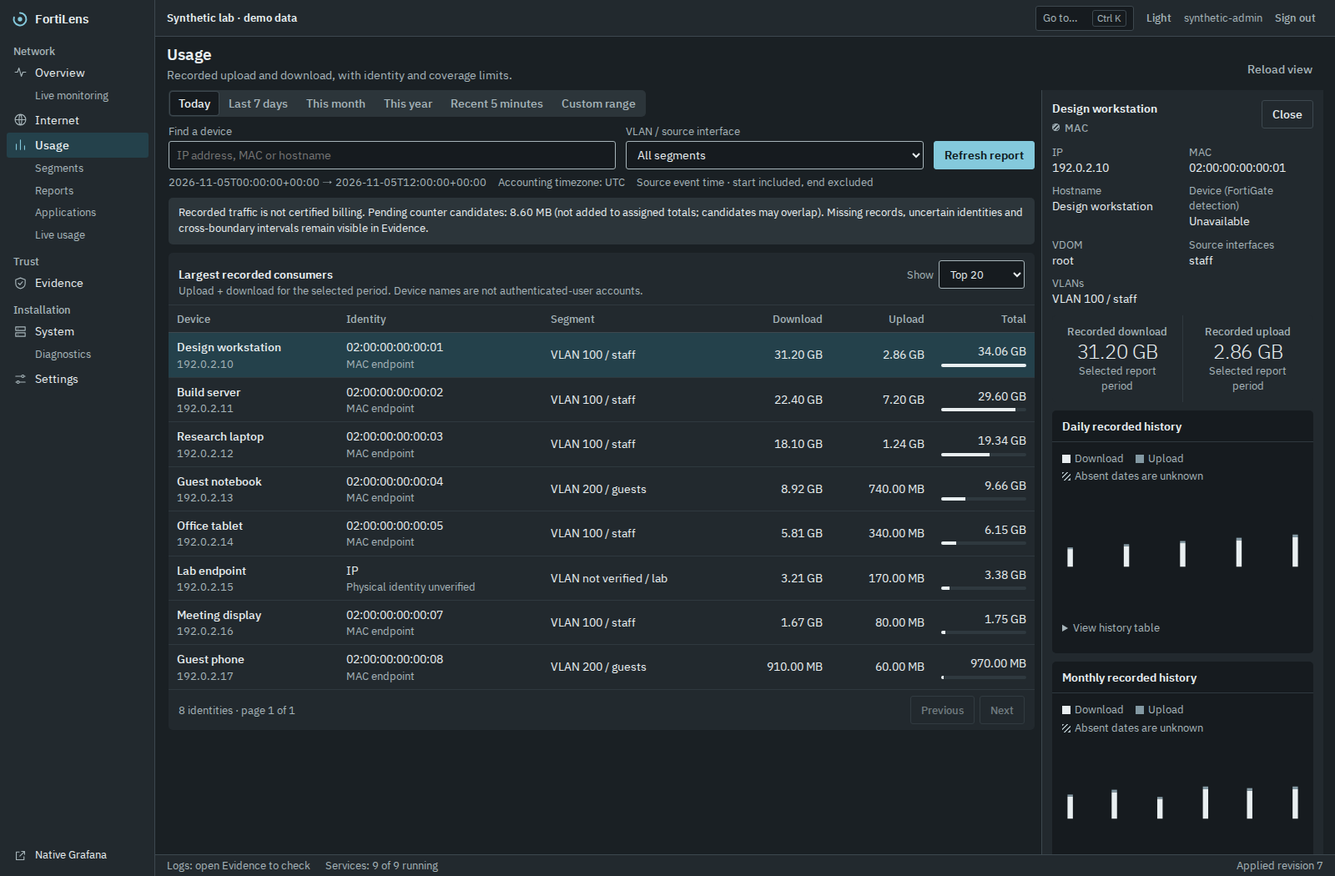
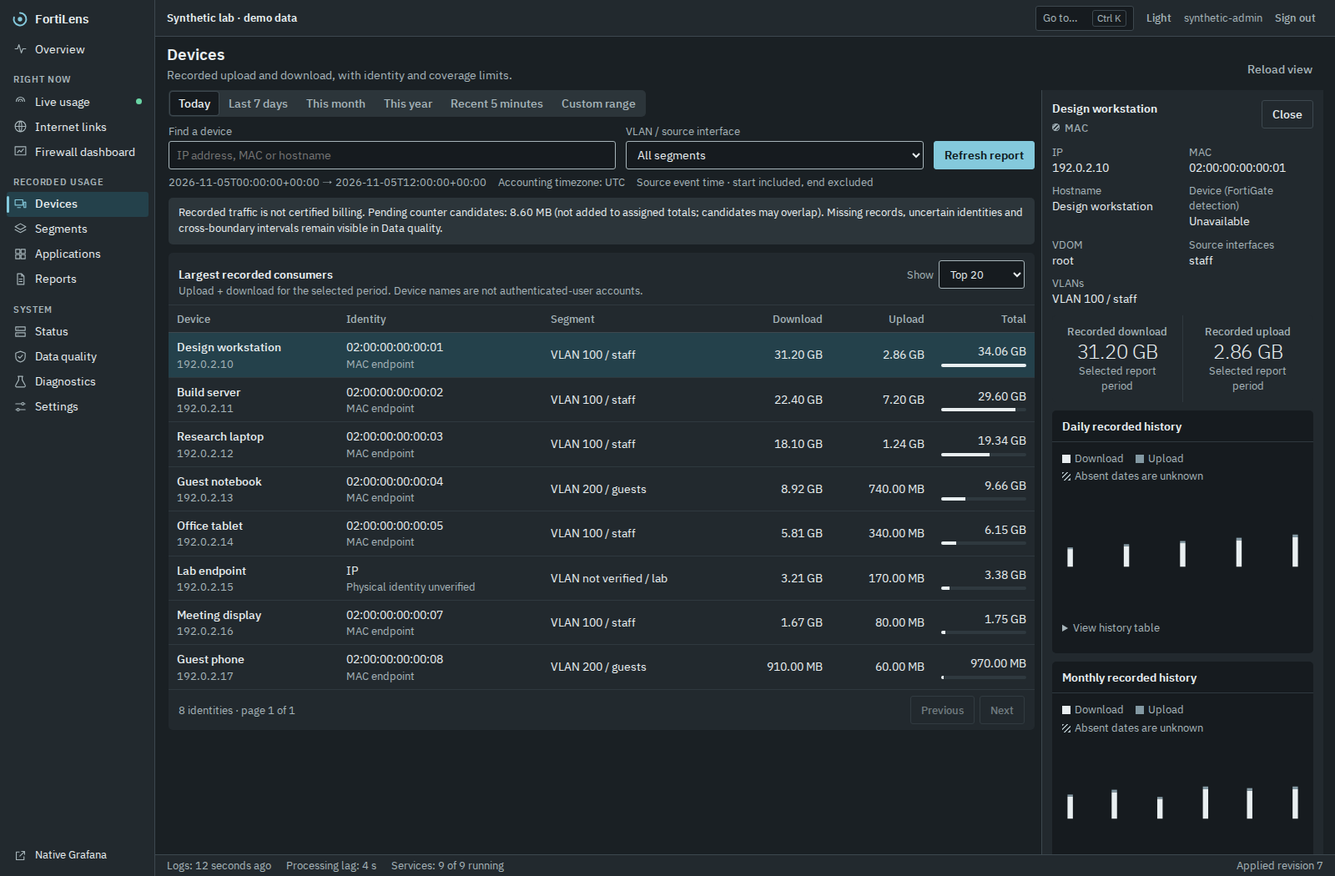
Group the console sidebar by question, with one top-level item per page

diff --git a/portable/reporting.html b/portable/reporting.html
@@ -122,7 +122,7 @@ html .login{max-width:420px;margin:10vh auto;padding:18px;border-radius:5px;back
 </style></head><body>
 <header><div class="brand"><svg class="logo" viewBox="0 0 24 24" fill="none" stroke="currentColor" aria-hidden="true"><path d="M12 3a9 9 0 1 1-8.600 6.300" stroke-width="2.400" stroke-linecap="round"/><circle cx="12" cy="12" r="3.200" fill="currentColor" stroke="none"/></svg><div><strong>FortiLens</strong><small>Traffic intelligence</small></div></div><div class="header-right"><span class="status" id="workspace-status">Protected reports</span><button id="logout" hidden>Sign out</button></div></header>
 <section id="login" class="card login"><h1>Your network, in focus.</h1><p><span id="login-caption">Sign in to inspect recorded traffic, VLAN usage and WAN evidence.</span></p><form id="login-form"><label for="username">Username</label><input id="username" value="admin" autocomplete="username" required><label for="password">Reporting password</label><input id="password" type="password" autocomplete="off" required><button class="primary" id="login-submit" type="submit">Open reports</button><p id="login-error" class="login-error" role="alert"></p></form></section>
-<div id="application" class="layout" hidden><aside><div class="caption">Workspace</div><nav aria-label="Workspace navigation"><button data-view="monitoring" id="monitoring-nav" hidden>Monitoring</button><button class="selected" data-view="overview">Usage overview</button><button data-view="devices">Devices &amp; VLANs</button><button data-view="applications">Applications</button><button data-view="live">Live usage</button><button data-view="wan">Internet</button><button data-view="quality">Evidence</button></nav></aside><main>
+<div id="application" class="layout" hidden><aside><div class="caption">Workspace</div><nav aria-label="Workspace navigation"><button data-view="monitoring" id="monitoring-nav" hidden>Monitoring</button><button class="selected" data-view="overview">Usage overview</button><button data-view="devices">Devices &amp; VLANs</button><button data-view="applications">Applications</button><button data-view="live">Live usage</button><button data-view="wan">Internet links</button><button data-view="quality">Data quality</button></nav></aside><main>
 <div class="page-head"><div><h1 id="page-title">Usage overview</h1><p id="page-description" class="muted">Find your largest recorded Internet consumers.</p></div><span id="coverage" class="status warn">Coverage not certified</span></div>
 <div id="message" class="notice error" role="alert" hidden></div>
 <section id="monitoring-section" hidden><div class="monitoring-toolbar"><p class="muted">Live monitoring powered by Grafana. Missing telemetry stays NO DATA.</p><button id="reload-monitoring">Reload monitoring</button></div><p id="monitoring-clock-warning" class="notice" role="status" hidden></p><p id="monitoring-message" class="notice" role="status">Connecting to monitoring...</p><iframe id="monitoring-frame" title="FortiLens network monitoring" referrerpolicy="same-origin" hidden></iframe></section>
@@ -144,7 +144,7 @@ html .login{max-width:420px;margin:10vh auto;padding:18px;border-radius:5px;back
 function applyTheme(){let theme='';try{theme=localStorage.getItem('fortilens.theme')||''}catch{}if(theme!=='light'&&theme!=='dark'){try{if(window.parent!==window)theme=window.parent.document.documentElement.dataset.theme||''}catch{}}if(theme!=='light'&&theme!=='dark')theme=matchMedia('(prefers-color-scheme: light)').matches?'light':'dark';document.documentElement.dataset.theme=theme}
 applyTheme();window.addEventListener('storage',e=>{if(e.key==='fortilens.theme')applyTheme()});
 const $=id=>document.getElementById(id);const state={auth:'',portal:false,view:'overview',period:'today',report:null,page:0,busy:false,monitoringSequence:0};
-const titles={monitoring:['Network monitoring','Firewall health, WAN quality and traffic in your FortiLens workspace.'],live:['Live usage','Who is using the Internet right now, from FortiGate realtime session statistics.'],overview:['Usage overview','Find your largest recorded Internet consumers.'],applications:['Applications','Which applications and categories used the Internet, and which devices used them.'],devices:['Device usage','Search endpoint identities and inspect each device’s recorded history.'],reports:['Period reports','Review recorded totals, largest consumers and segment distribution.'],vlans:['VLAN usage','Inspect recorded usage by exact VLAN and interface mapping.'],wan:['Internet','Separate Internet SLA, physical link and route-selection evidence.'],quality:['Evidence','See what was received, processed, pending or unavailable.']};
+const titles={monitoring:['Network monitoring','Firewall health, WAN quality and traffic in your FortiLens workspace.'],live:['Live usage','Who is using the Internet right now, from FortiGate realtime session statistics.'],overview:['Usage overview','Find your largest recorded Internet consumers.'],applications:['Applications','Which applications and categories used the Internet, and which devices used them.'],devices:['Device usage','Search endpoint identities and inspect each device’s recorded history.'],reports:['Period reports','Review recorded totals, largest consumers and segment distribution.'],vlans:['VLAN usage','Inspect recorded usage by exact VLAN and interface mapping.'],wan:['Internet links','Separate Internet SLA, physical link and route-selection evidence.'],quality:['Data quality','See what was received, processed, pending or unavailable.']};
 const requestedSection=document.body.dataset.reportSection||new URLSearchParams(location.search).get('section');
 const reportSection=['devices','vlans','reports','applications','live'].includes(requestedSection)?requestedSection:null;
 const bytes=n=>n===null||n===undefined?'—':Number(n)>=1e12?(Number(n)/1e12).toFixed(2)+' TB':Number(n)>=1e9?(Number(n)/1e9).toFixed(2)+' GB':Number(n)>=1e6?(Number(n)/1e6).toFixed(2)+' MB':Number(n)>=1e3?(Number(n)/1e3).toFixed(2)+' KB':number(n)+' B';
@@ -279,7 +279,7 @@ function params(){const q=new URLSearchParams({period:state.period,search:$('sea
 function labelRow(tr,names){names.forEach((name,i)=>{if(tr.children[i])tr.children[i].dataset.label=name})}
 function badge(text,kind=''){return element('span',text,'status '+kind)}
 function stat(label,value,caption,color=''){const card=element('div',undefined,'card');card.append(element('div',label,'metric-label'),element('div',value,'metric-value '+color),element('small',caption));return card}
-function renderStats(r){$('stats').replaceChildren(stat('Recorded download',bytes(r.totals.download_bytes),'Received response bytes','blue'),stat('Recorded upload',bytes(r.totals.upload_bytes),'Internal-origin sent bytes','purple'),stat('Assigned Internet usage',r.totals.upload_bytes===null?'—':bytes(r.totals.upload_bytes+r.totals.download_bytes),'Upload + download; pending excluded'),stat('Observed endpoint identities',r.devices.length?number(r.observed_endpoint_identities):'—',number(r.unverified_endpoint_identities)+' without stable MAC identity'));const pending=(r.totals.pending_upload_bytes||0)+(r.totals.pending_download_bytes||0);$('evidence-note').textContent='Recorded traffic is not certified billing. '+(pending?'Pending counter candidates: '+bytes(pending)+' (not added to assigned totals; candidates may overlap). ':'')+'Missing records, uncertain identities and cross-boundary intervals remain visible in Evidence.';$('range-label').textContent=r.start_utc+' → '+r.end_utc;$('timezone').textContent='Accounting timezone: '+r.timezone;$('coverage').textContent=r.status==='UNAVAILABLE'?'No accounting evidence':'Recorded data · coverage unknown'}
+function renderStats(r){$('stats').replaceChildren(stat('Recorded download',bytes(r.totals.download_bytes),'Received response bytes','blue'),stat('Recorded upload',bytes(r.totals.upload_bytes),'Internal-origin sent bytes','purple'),stat('Assigned Internet usage',r.totals.upload_bytes===null?'—':bytes(r.totals.upload_bytes+r.totals.download_bytes),'Upload + download; pending excluded'),stat('Observed endpoint identities',r.devices.length?number(r.observed_endpoint_identities):'—',number(r.unverified_endpoint_identities)+' without stable MAC identity'));const pending=(r.totals.pending_upload_bytes||0)+(r.totals.pending_download_bytes||0);$('evidence-note').textContent='Recorded traffic is not certified billing. '+(pending?'Pending counter candidates: '+bytes(pending)+' (not added to assigned totals; candidates may overlap). ':'')+'Missing records, uncertain identities and cross-boundary intervals remain visible in Data quality.';$('range-label').textContent=r.start_utc+' → '+r.end_utc;$('timezone').textContent='Accounting timezone: '+r.timezone;$('coverage').textContent=r.status==='UNAVAILABLE'?'No accounting evidence':'Recorded data · coverage unknown'}
 function vlanName(v){return v.status==='MAPPED'?'VLAN '+v.vlan_id:v.status==='NOT_VLAN'?'Interface segment':'VLAN not verified'}
 function renderDevices(){const r=state.report;if(!r)return;let devices=r.devices;const cap=$('top').value;if(cap!=='all')devices=devices.slice(0,Number(cap));const size=50;state.page=Math.min(state.page,Math.max(0,Math.ceil(devices.length/size)-1));const page=devices.slice(state.page*size,(state.page+1)*size);$('device-body').replaceChildren();const max=devices[0]?.total_bytes||1;for(const d of page){const tr=element('tr'),name=element('td'),link=element('button',d.hostname||d.ip||'Unidentified endpoint','entity');link.addEventListener('click',()=>{for(const row of document.querySelectorAll('tr.sel'))row.classList.remove('sel');tr.classList.add('sel');openDevice(d.device_id)});name.append(link,element('span',d.ip||'No source IP','secondary'));const identity=identityCell(d);const vlans=element('td',d.vlans.map(v=>vlanName(v)+' / '+v.interface).join(', '));tr.append(name,identity,vlans);for(const n of [d.download_bytes,d.upload_bytes,d.total_bytes]){const td=element('td',bytes(n),'number');td.title=String(n)+' bytes';tr.append(td)}if(state.period==='recent')tr.lastChild.append(element('span',number(d.total_bytes*8/300/1e6)+' Mbps recorded average','secondary'));const p=element('progress');p.max=max;p.value=d.total_bytes;p.setAttribute('aria-label','Relative assigned usage');tr.lastChild.append(p);labelRow(tr,['Device','Identity','Segment','Download','Upload','Total']);$('device-body').append(tr)}$('device-empty').hidden=devices.length>0;$('device-count').textContent=number(devices.length)+' identities · page '+(state.page+1)+' of '+Math.max(1,Math.ceil(devices.length/size));$('previous').disabled=state.page===0;$('next').disabled=(state.page+1)*size>=devices.length;$('device-title').textContent=cap==='all'?'Observed endpoint identities':'Largest recorded consumers';$('device-caption').textContent=state.period==='recent'?'Recorded bytes during the last 5 minutes; not instantaneous per-device bandwidth.':'Upload + download for the selected period. Device names are not authenticated-user accounts.'}
 function renderVlans(r){$('vlan-body').replaceChildren();for(const v of r.vlans){const tr=element('tr'),cell=element('td'),button=element('button',vlanName(v.vlan),'entity');button.addEventListener('click',()=>{$('vlan').value=v.vlan.key;loadReport()});cell.append(button);tr.append(cell,element('td',v.vlan.interface),element('td',number(v.observed_endpoint_identities),'number'),element('td',bytes(v.download_bytes),'number'),element('td',bytes(v.upload_bytes),'number'),element('td',bytes(v.total_bytes),'number'));labelRow(tr,['VLAN','Interface','Identities','Download','Upload','Total']);$('vlan-body').append(tr)}$('vlan-empty').hidden=r.vlans.length>0;const current=$('vlan').value;const known=new Set([...$('vlan').options].map(x=>x.value));const add=(key,text)=>{if(known.has(key))return;known.add(key);const o=element('option',text);o.value=key;$('vlan').append(o)};for(const v of r.vlans)add(v.vlan.key,vlanName(v.vlan)+' / '+v.vlan.interface);

diff --git a/management/static/index.html b/management/static/index.html
@@ -6,7 +6,7 @@
 <div id="workspace" class="workspace" hidden>
 <a id="skip-content" class="skip-link" href="#main-content">Skip to content</a>
 <button id="nav-scrim" class="nav-scrim" type="button" aria-label="Close navigation" hidden tabindex="-1"></button>
-<aside id="workspace-nav" class="sidebar" aria-label="Workspace"><button id="menu-close" class="menu-close" type="button" aria-label="Close navigation"><svg viewBox="0 0 24 24" aria-hidden="true"><path d="m6 6 12 12M18 6 6 18"/></svg></button><a class="brand" href="#monitoring"><svg viewBox="0 0 24 24" aria-hidden="true"><path d="M12 3a9 9 0 1 1-8.600 6.300" stroke-width="2.400" stroke-linecap="round"/><circle cx="12" cy="12" r="3.200"/></svg><span><strong>FortiLens</strong></span></a><nav aria-label="Main navigation"><p class="nav-caption">Network</p><a href="#home" data-page="home"><span class="nav-icon"></span>Overview</a><a class="child" href="#monitoring" data-page="monitoring">Live monitoring</a><a href="#wan" data-page="wan"><span class="nav-icon"></span>Internet</a><a href="#devices" data-page="devices"><span class="nav-icon"></span>Usage</a><a class="child" href="#vlans" data-page="vlans">Segments</a><a class="child" href="#reports" data-page="reports">Reports</a><a class="child" href="#applications" data-page="applications">Applications</a><a class="child" href="#live" data-page="live">Live usage</a><p class="nav-caption">Trust</p><a href="#quality" data-page="quality"><span class="nav-icon"></span>Evidence</a><p class="nav-caption">Installation</p><a href="#overview" data-page="overview"><span class="nav-icon"></span>System</a><a class="child" href="#diagnostics" data-page="diagnostics">Diagnostics</a><a href="#settings" data-page="settings"><span class="nav-icon"></span>Settings</a></nav><div class="sidebar-foot"><a id="native-grafana" href="/grafana/" target="_blank" rel="noopener" hidden><svg viewBox="0 0 24 24" aria-hidden="true"><path d="M14 5h5v5M19 5l-8 8M18 14v5H5V6h5"/></svg>Native Grafana</a></div></aside>
+<aside id="workspace-nav" class="sidebar" aria-label="Workspace"><button id="menu-close" class="menu-close" type="button" aria-label="Close navigation"><svg viewBox="0 0 24 24" aria-hidden="true"><path d="m6 6 12 12M18 6 6 18"/></svg></button><a class="brand" href="#monitoring"><svg viewBox="0 0 24 24" aria-hidden="true"><path d="M12 3a9 9 0 1 1-8.600 6.300" stroke-width="2.400" stroke-linecap="round"/><circle cx="12" cy="12" r="3.200"/></svg><span><strong>FortiLens</strong></span></a><nav aria-label="Main navigation"><a href="#home" data-page="home"><span class="nav-icon"></span>Overview</a><p class="nav-caption">Right now</p><a href="#live" data-page="live"><span class="nav-icon"></span>Live usage<span class="nav-live" aria-hidden="true"></span></a><a href="#wan" data-page="wan"><span class="nav-icon"></span>Internet links</a><a href="#monitoring" data-page="monitoring"><span class="nav-icon"></span>Firewall dashboard</a><p class="nav-caption">Recorded usage</p><a href="#devices" data-page="devices"><span class="nav-icon"></span>Devices</a><a href="#vlans" data-page="vlans"><span class="nav-icon"></span>Segments</a><a href="#applications" data-page="applications"><span class="nav-icon"></span>Applications</a><a href="#reports" data-page="reports"><span class="nav-icon"></span>Reports</a><p class="nav-caption">System</p><a href="#overview" data-page="overview"><span class="nav-icon"></span>Status</a><a href="#quality" data-page="quality"><span class="nav-icon"></span>Data quality</a><a href="#diagnostics" data-page="diagnostics"><span class="nav-icon"></span>Diagnostics</a><a href="#settings" data-page="settings"><span class="nav-icon"></span>Settings</a></nav><div class="sidebar-foot"><a id="native-grafana" href="/grafana/" target="_blank" rel="noopener" hidden><svg viewBox="0 0 24 24" aria-hidden="true"><path d="M14 5h5v5M19 5l-8 8M18 14v5H5V6h5"/></svg>Native Grafana</a></div></aside>
 <div id="main-shell" class="main-shell"><header class="topbar"><button id="menu-toggle" class="menu-toggle" type="button" aria-label="Open navigation" aria-expanded="false" aria-controls="workspace-nav"><svg viewBox="0 0 24 24" aria-hidden="true"><path d="M4 6h16M4 12h16M4 18h16"/></svg></button><span id="site-label">Your network workspace</span><div><button id="palette-open" type="button" aria-haspopup="dialog" aria-label="Open command palette"><span>Go to…</span><span class="kbd">Ctrl K</span></button><button id="theme-toggle" class="quiet" type="button">Light</button><span id="session-user" class="muted"></span><button id="signout" class="quiet">Sign out</button></div></header><main id="main-content" tabindex="-1">
 <div class="page-heading"><div><h1 id="page-title" tabindex="-1">Network overview</h1><p id="page-caption">One place to configure, monitor and understand your network.</p></div><button id="reload-console" class="quiet console-refresh">Reload view</button><span id="revision" class="pill">Not configured</span></div>
 <div id="notice" class="notice" role="status" hidden></div>
@@ -14,12 +14,12 @@
 <section id="home-status" class="stat is-u" aria-live="polite"><div class="stat-m"><h2 id="home-head">Reading the evidence…</h2><p id="home-sub">Nothing is assumed until it is received.</p></div><dl id="home-fields" class="stat-f"></dl><a id="home-action" class="button" hidden></a></section>
 <div class="home-grid"><div class="col">
 <section class="scope"><div class="scope-h"><h2>Network channels</h2><span id="home-cursor" class="scope-cur" aria-live="off"></span><div class="scope-tools"><label class="inline" for="home-window">Window<select id="home-window"><option value="3600">Last hour</option><option value="86400" selected>Last 24 hours</option><option value="604800">Last 7 days</option></select></label><button id="home-refresh" type="button">Refresh</button></div></div><div id="home-channels" tabindex="0" aria-label="Network channels on one time axis. Use the left and right arrow keys to read a moment in time."></div><div id="home-axis" class="xaxis"></div></section>
-<div class="lkey"><span class="up">Observed up</span><span class="degraded">Degraded</span><span class="down">Observed down</span><span class="unknown">No evidence</span><a class="lkey-link" href="#monitoring" data-page="monitoring">Latency and traffic traces in live monitoring</a></div>
+<div class="lkey"><span class="up">Observed up</span><span class="degraded">Degraded</span><span class="down">Observed down</span><span class="unknown">No evidence</span><a class="lkey-link" href="#monitoring" data-page="monitoring">Latency and traffic traces in the firewall dashboard</a></div>
 <section id="home-wan" class="panel-flat" hidden><div class="table-wrap"><table><thead><tr><th>Link</th><th>Internet SLA</th><th>Physical</th><th>Route</th><th class="r">Down / Up Mbps</th><th class="r">Latency / Jitter</th><th class="r">Loss</th><th class="r">Observed up</th></tr></thead><tbody id="home-wan-body"></tbody></table></div><p id="home-route" class="help"></p></section>
 </div><div class="col">
 <section class="box"><div class="panel-head"><h2>Largest recorded consumers</h2><a class="small-link" href="#devices" data-page="devices">All devices</a></div><ul id="home-consumers" class="plain"></ul><p class="help box-note">Device names are not user accounts. Totals cover received logs only.</p></section>
 <section class="box"><div class="panel-head"><h2>By segment</h2><a class="small-link" href="#vlans" data-page="vlans">Compare</a></div><ul id="home-segments" class="plain"></ul></section>
-<section class="box"><div class="panel-head"><h2>Installation</h2><a class="small-link" href="#overview">System</a></div><ul id="home-services" class="plain"></ul></section>
+<section class="box"><div class="panel-head"><h2>Installation</h2><a class="small-link" href="#overview">Status</a></div><ul id="home-services" class="plain"></ul></section>
 </div></div></section>
 <section id="overview-page"><div class="overview-actions"><a class="button" href="#monitoring" data-page="monitoring">Open live monitoring</a><a class="button" href="#diagnostics" data-page="diagnostics">Run diagnostics</a></div><div class="summary-cards" id="overview-cards"></div><div class="two-col"><section class="panel"><div class="panel-head"><div><h2>Monitoring services</h2><p>Actual container state, independent of FortiGate reachability.</p></div><button id="refresh-system">Refresh</button></div><div id="service-list"></div></section><section class="panel workspace-note"><h2 id="next-title">Connect your network.</h2><p id="next-caption">Review the connection, confirm Internet interfaces and apply your monitoring configuration.</p><a class="button" href="#settings">Manage settings</a><hr><h3>Collection matters</h3><p>Running services do not prove that the firewall is sending data. Review collection health before interpreting usage.</p><a href="#diagnostics">Review diagnostics</a></section></div><div class="evidence-note"><p>Missing telemetry stays unknown. Reports show received accounting evidence, with collection gaps and identity limits visible.</p><a href="#quality" data-page="quality">Review evidence</a></div></section>
 <section id="console-page" hidden><p id="console-clock-warning" class="notice" role="status" hidden></p><p id="console-error" class="notice" hidden></p><div class="console-stage"><p id="console-loading" role="status" hidden>Loading workspace…</p><iframe id="console-frame" title="FortiLens monitoring and reports" referrerpolicy="same-origin"></iframe></div></section>

diff --git a/management/static/app.js b/management/static/app.js
@@ -48,8 +48,8 @@ function consoleDocumentReady(frame){
   return true;
  }catch(e){return false}
 }
-const titles={home:['Overview','What the links, logs and usage evidence say right now.'],overview:['System','Monitoring services, storage and configuration readiness.'],wan:['Internet','Observed health, physical link and route evidence remain separate.'],devices:['Usage','Recorded upload and download, with identity and coverage limits.'],vlans:['Segments','Internet usage grouped by exact interface metadata.'],reports:['Reports','Daily, weekly and monthly reports from the existing accounting engine.'],applications:['Applications','Recorded Internet usage by application and category, and the devices that used them.'],live:['Live usage','Who is using the Internet right now, from FortiGate realtime session statistics.'],monitoring:['Live monitoring','Firewall health, Internet links and interface traffic in native Grafana.'],quality:['Evidence','Collection gaps, accounting evidence and identity limits.'],settings:['Settings','Manage your installation without editing configuration files.'],diagnostics:['Diagnostics','Read-only evidence, service readiness and actionable next steps.']};
-const pageGroups={home:'Network',monitoring:'Overview',wan:'Network',devices:'Network',vlans:'Usage',reports:'Usage',applications:'Usage',live:'Usage',quality:'Trust',overview:'Installation',diagnostics:'System',settings:'Installation'};
+const titles={home:['Overview','What the links, logs and usage evidence say right now.'],overview:['Status','Monitoring services, storage and configuration readiness.'],wan:['Internet links','Observed health, physical link and route evidence remain separate.'],devices:['Devices','Recorded upload and download, with identity and coverage limits.'],vlans:['Segments','Internet usage grouped by exact interface metadata.'],reports:['Reports','Daily, weekly and monthly reports from the existing accounting engine.'],applications:['Applications','Recorded Internet usage by application and category, and the devices that used them.'],live:['Live usage','Who is using the Internet right now, from FortiGate realtime session statistics.'],monitoring:['Firewall dashboard','Firewall health, Internet links and interface traffic in native Grafana.'],quality:['Data quality','Collection gaps, accounting evidence and identity limits.'],settings:['Settings','Manage your installation without editing configuration files.'],diagnostics:['Diagnostics','Read-only evidence, service readiness and actionable next steps.']};
+const pageGroups={home:'Overview',live:'Right now',wan:'Right now',monitoring:'Right now',devices:'Recorded usage',vlans:'Recorded usage',applications:'Recorded usage',reports:'Recorded usage',overview:'System',quality:'System',diagnostics:'System',settings:'System'};
 // Theme choice is shared with the same-origin report frame through storage.
 function savedTheme(){try{const value=localStorage.getItem('fortilens.theme');if(value==='light'||value==='dark')return value}catch{}return window.matchMedia('(prefers-color-scheme: light)').matches?'light':'dark'}
 function applyTheme(theme){document.documentElement.dataset.theme=theme;try{const doc=$('console-frame').contentDocument;if(doc?.location.pathname.startsWith('/console/'))doc.documentElement.dataset.theme=theme}catch{}$('theme-toggle').textContent=theme==='dark'?'Light':'Dark';$('theme-toggle').setAttribute('aria-label','Switch to '+(theme==='dark'?'light':'dark')+' theme')}
@@ -524,7 +524,7 @@ function serverNow(){const t=state.system?.server_time_seconds;return typeof t==
 function agoText(seconds){if(!Number.isFinite(seconds)||seconds<0)return 'time unknown';if(seconds<90)return Math.round(seconds)+' seconds ago';if(seconds<5400)return Math.round(seconds/60)+' minutes ago';if(seconds<172800)return Math.round(seconds/3600)+' hours ago';return Math.round(seconds/86400)+' days ago'}
 function renderEvidenceBar(){
  const s=state.system,v=state.view,e=state.evidence||{};
- const logs=$('evidence-logs');logs.textContent=e.lastLog?'Logs: '+agoText(serverNow()-e.lastLog):state.evidence?'Logs: none received':'Logs: open Evidence to check';logs.classList.toggle('attention',!!state.evidence&&(!e.lastLog||serverNow()-e.lastLog>900));
+ const logs=$('evidence-logs');logs.textContent=e.lastLog?'Logs: '+agoText(serverNow()-e.lastLog):state.evidence?'Logs: none received':'Logs: open Data quality to check';logs.classList.toggle('attention',!!state.evidence&&(!e.lastLog||serverNow()-e.lastLog>900));
  $('evidence-lag').hidden=!Number.isFinite(e.lag);if(Number.isFinite(e.lag))$('evidence-lag').textContent='Processing lag: '+Number(e.lag).toLocaleString(undefined,{maximumFractionDigits:1})+' s';
  if(s){const running=s.services.filter(r=>r.status==='running').length,enabled=s.services.filter(r=>r.status!=='disabled').length;$('evidence-services').textContent='Services: '+running+' of '+enabled+' running';$('evidence-services').classList.toggle('attention',running<enabled)}else{$('evidence-services').textContent='Services: unknown';$('evidence-services').classList.add('attention')}
  $('evidence-revision').textContent=v?(v.pending_changes?'Draft '+v.revision+' · Applied '+(v.applied_revision??'none'):v.configured?'Applied revision '+v.applied_revision:'Not configured'):'';
@@ -543,5 +543,5 @@ $('palette-open').addEventListener('click',openPalette);$('palette-input').addEv
 $('palette-input').addEventListener('keydown',e=>{const count=state.paletteMatches?.length||0;if(e.key==='ArrowDown'&&count){e.preventDefault();state.paletteIndex=(state.paletteIndex+1)%count;renderPalette()}else if(e.key==='ArrowUp'&&count){e.preventDefault();state.paletteIndex=(state.paletteIndex-1+count)%count;renderPalette()}else if(e.key==='Enter'){e.preventDefault();runPalette(state.paletteIndex)}});
 window.addEventListener('keydown',e=>{if((e.ctrlKey||e.metaKey)&&e.key.toLowerCase()==='k'&&!e.altKey&&!e.shiftKey){e.preventDefault();openPalette()}});
 // Local SVG navigation icons; no trackers, CDN or external assets.
-for(const node of document.querySelectorAll('.nav-icon')){const svg=document.createElementNS('http://www.w3.org/2000/svg','svg');svg.setAttribute('viewBox','0 0 24 24');svg.setAttribute('aria-hidden','true');const p=document.createElementNS(svg.namespaceURI,'path');p.setAttribute('d',({home:'M3 12h4l2.500-7 4 14 2.500-7h5',wan:'M12 3a9 9 0 1 0 0 18 9 9 0 0 0 0-18M3 12h18M12 3c3 3 3 15 0 18M12 3c-3 3-3 15 0 18',devices:'M5 20v-9M12 20V4M19 20v-6',quality:'M12 3l8 3v6c0 5-3.500 8-8 9-4.500-1-8-4-8-9V6zM8.500 12l2.500 2.500 4.500-5',overview:'M4 4h16v6H4zM4 14h16v6H4zM8 7h.01M8 17h.01',settings:'M4 7h10M18 7h2M4 17h2M10 17h10M16 5a2 2 0 1 0 0 4 2 2 0 0 0 0-4M8 15a2 2 0 1 0 0 4 2 2 0 0 0 0-4'})[node.parentElement.dataset.page]||'M4 5h16v14H4z');p.setAttribute('fill','none');p.setAttribute('stroke','currentColor');p.setAttribute('stroke-width','1.6');p.setAttribute('stroke-linecap','round');p.setAttribute('stroke-linejoin','round');svg.append(p);node.replaceChildren(svg)}
+for(const node of document.querySelectorAll('.nav-icon')){const svg=document.createElementNS('http://www.w3.org/2000/svg','svg');svg.setAttribute('viewBox','0 0 24 24');svg.setAttribute('aria-hidden','true');const p=document.createElementNS(svg.namespaceURI,'path');p.setAttribute('d',({home:'M3 12h4l2.500-7 4 14 2.500-7h5',wan:'M12 3a9 9 0 1 0 0 18 9 9 0 0 0 0-18M3 12h18M12 3c3 3 3 15 0 18M12 3c-3 3-3 15 0 18',devices:'M3 5h13v9H3zM7 18h5M18 9h3v9h-3z',vlans:'M12 3l9 5-9 5-9-5zM3 13l9 5 9-5',applications:'M4 4h7v7H4zM13 4h7v7h-7zM4 13h7v7H4zM13 13h7v7h-7z',reports:'M7 3h7l4 4v14H7zM14 3v4h4M10 12h5M10 16h5',live:'M5 12a7 7 0 0 1 14 0M8.500 12a3.500 3.500 0 0 1 7 0M12 12h.01',monitoring:'M3 4h18v14H3zM7 14l3-4 3 3 4-5',diagnostics:'M9 3v6l-5 9a2 2 0 0 0 2 3h12a2 2 0 0 0 2-3l-5-9V3M8 3h8',quality:'M12 3l8 3v6c0 5-3.500 8-8 9-4.500-1-8-4-8-9V6zM8.500 12l2.500 2.500 4.500-5',overview:'M4 4h16v6H4zM4 14h16v6H4zM8 7h.01M8 17h.01',settings:'M4 7h10M18 7h2M4 17h2M10 17h10M16 5a2 2 0 1 0 0 4 2 2 0 0 0 0-4M8 15a2 2 0 1 0 0 4 2 2 0 0 0 0-4'})[node.parentElement.dataset.page]||'M4 5h16v14H4z');p.setAttribute('fill','none');p.setAttribute('stroke','currentColor');p.setAttribute('stroke-width','1.6');p.setAttribute('stroke-linecap','round');p.setAttribute('stroke-linejoin','round');svg.append(p);node.replaceChildren(svg)}
 (async()=>{try{const b=await api('/api/bootstrap/status');state.bootstrap=b.required;$('bootstrap-fields').hidden=!b.required;$('confirmation-field').hidden=!b.required;if(b.required){$('auth-title').textContent='Your workspace starts here.';$('auth-caption').textContent='Create the first administrator using the one-time installation token.';$('auth-submit').textContent='Create administrator';$('password').autocomplete='new-password'}else{try{const s=await api('/api/session');state.csrf=s.csrf;await enter()}catch(e){if(e.code!=='authentication_required')$('auth-error').textContent=errorText(e)}}}catch(e){$('auth-error').textContent=errorText(e)}})();

diff --git a/management/static/app.css b/management/static/app.css
@@ -86,12 +86,13 @@ details[open] > summary::before { content: "▾"; }
 .brand svg circle, .auth-brand svg circle { fill: currentColor; stroke: none; }
 .brand strong { font-size: 15px; font-weight: 600; letter-spacing: -.01em; }
 .sidebar nav { min-height: 0; overflow-y: auto; scrollbar-width: thin; }
-.nav-caption { margin: 8px 0 2px; padding: 0 8px; color: var(--sub); font-size: 12.5px; font-weight: 500; }
+.nav-caption { margin: 14px 0 3px; padding: 0 8px; color: var(--sub); font-size: 11px; font-weight: 600; letter-spacing: .06em; text-transform: uppercase; }
 .sidebar nav a { display: flex; align-items: center; gap: 9px; min-height: 30px; padding: 4px 8px; border-radius: var(--r1); color: var(--ink); text-decoration: none; }
 .sidebar nav a:hover { background: var(--raise); }
+.sidebar nav a { position: relative; }
 .sidebar nav a.active { background: var(--acc-s); font-weight: 500; }
-.sidebar nav a.child { min-height: 26px; padding-left: 34px; color: var(--sub); font-size: 13px; }
-.sidebar nav a.child.active { color: var(--ink); }
+.sidebar nav a.active::before { content: ""; position: absolute; left: 0; top: 5px; bottom: 5px; width: 3px; border-radius: 2px; background: var(--acc); }
+.nav-live { width: 7px; height: 7px; margin-left: auto; border-radius: 50%; background: var(--good, #2f9e6a); }
 .nav-icon { display: inline-flex; flex: none; width: 17px; justify-content: center; color: var(--sub); }
 .nav-icon svg { display: block; width: 17px; height: 17px; }
 .active > .nav-icon { color: var(--acc); }
@@ -354,7 +355,7 @@ dd { margin: 0; overflow-wrap: anywhere; }
 /* Compact layout and touch: every control stays a 44px target. */
 @media (pointer: coarse), (max-width: 900px) {
   :root { --ctl: 44px; }
-  .sidebar nav a, .sidebar nav a.child, .sidebar-foot a, .topbar .quiet, #palette-open { min-height: 44px; }
+  .sidebar nav a, .sidebar-foot a, .topbar .quiet, #palette-open { min-height: 44px; }
   summary { min-height: 44px; }
 }
 @media (max-width: 1100px) {

diff --git a/docs/development/UI_DESIGN.md b/docs/development/UI_DESIGN.md
@@ -44,32 +44,46 @@ distinguish pending drafts from the applied configuration.
 
 ## Layout and navigation
 
-Overview is the configured default and first network destination, with live
-monitoring one click away. Keep an explicitly saved valid route; use Settings
-for an unconfigured installation. Overview brings link timelines, current
-observations, recorded consumers and collection evidence together. Live monitoring
-opens the real native Grafana dashboard within the same workspace:
+Overview is the configured default and first destination. Keep an explicitly
+saved valid route; use Settings for an unconfigured installation. Overview brings
+link timelines, current observations, recorded consumers and collection evidence
+together. The Firewall dashboard opens the real native Grafana dashboard within
+the same workspace.
+
+The sidebar is grouped by the question a person is asking, and every page is one
+top-level item with its own icon:
 
 ```text
 FortiLens            Site                                  Account
-Network              Overview                         Reload view
-  Overview           +-------------------------------------------+
-    Live monitoring  | Shared link timelines and observed states |
-  Internet           | Current link measurements                 |
-  Usage              | Recorded consumers and segments           |
-    Segments         | Collection and installation evidence      |
-    Reports          +-------------------------------------------+
-Trust
-  Evidence
-Installation
-  System
-    Diagnostics
+Overview             Overview                         Reload view
+RIGHT NOW            +-------------------------------------------+
+  Live usage      •  | Shared link timelines and observed states |
+  Internet links     | Current link measurements                 |
+  Firewall dashboard | Recorded consumers and segments           |
+RECORDED USAGE       | Collection and installation evidence      |
+  Devices            +-------------------------------------------+
+  Segments
+  Applications
+  Reports
+SYSTEM
+  Status
+  Data quality
+  Diagnostics
   Settings
 ```
 
+- Right now: current state (realtime sessions, link health, Grafana). Recorded
+  usage: views of accounting history, with Reports last because it spans them.
+  System: FortiLens itself. Add a new page to the group whose question it answers,
+  as a top-level item with an icon; do not nest pages under another page.
+- Group captions are small uppercase labels. The active item has a tinted
+  background and a 3px accent bar, so it does not rely on colour alone.
+- Page names stay plain. URL fragments (`#devices`, `#quality`, …) are stable
+  even when a visible name changes.
+
 - A compact persistent sidebar and 56px header on desktop. One main scroll region
   for overview/settings/diagnostics; consistent content spacing.
-- Live monitoring and hosted reports fill the remaining viewport with a borderless document.
+- The Firewall dashboard and hosted reports fill the remaining viewport with a borderless document.
   The shell does not add an outer scrolling page around that embedded viewport.
   Retain native Grafana panels, selectors, query groups and saved layout.
 - Native Grafana remains at `/grafana/`. Never globally replace Grafana URLs,

diff --git a/README.md b/README.md
@@ -41,8 +41,8 @@ your own server, with your own credentials and data.
 | Which applications used the Internet, and which devices used them? | **Applications** groups recorded usage by FortiGate Application Control label and category, with GenAI and risk filters. |
 | Who is using the Internet right now? | **Live usage** shows current download and upload per device, application, segment and WAN link from FortiGate realtime sessions, refreshed every 10 seconds. |
 | What was the total for a period? | **Reports** covers Today, rolling 7 days, this month, this year, recent 5 minutes or a custom range. |
-| Can I trust these numbers? | **Evidence** shows collection gaps, pending counters and identity limits. |
-| What is happening right now, in detail? | **Live monitoring** opens the native Grafana dashboard. |
+| Can I trust these numbers? | **Data quality** shows collection gaps, pending counters and identity limits. |
+| What is happening right now, in detail? | **Firewall dashboard** opens the native Grafana dashboard. |
 | Is the installation itself working? | **System**, **Diagnostics** and **Settings** cover services, collection and reviewed configuration changes. |
 
 Usage figures come from received accounting records. Missing records never become

diff --git a/docs/operations/CAPACITY.md b/docs/operations/CAPACITY.md
@@ -31,7 +31,7 @@ instead; at 120 + 30 seconds that ceiling was about 200 records per second.
 
 ## Estimating your rate
 
-Diagnostics and the Evidence page show received record counts. As a reference,
+Diagnostics and the Data quality page show received record counts. As a reference,
 one office site with about 110 endpoint identities received 2.8–3.9 million
 records a day: an average of 33–45 records per second, about 0.35 per device,
 with a measured busiest hour of 74 records per second (2.2 times the daily
